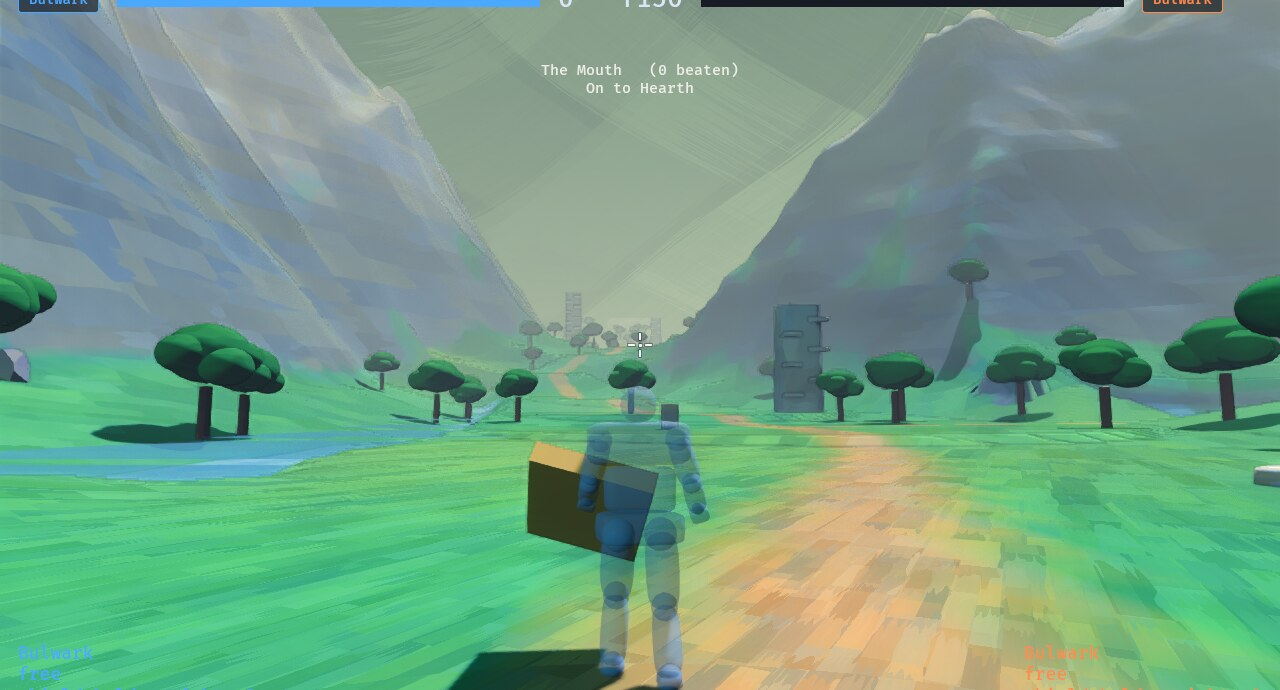
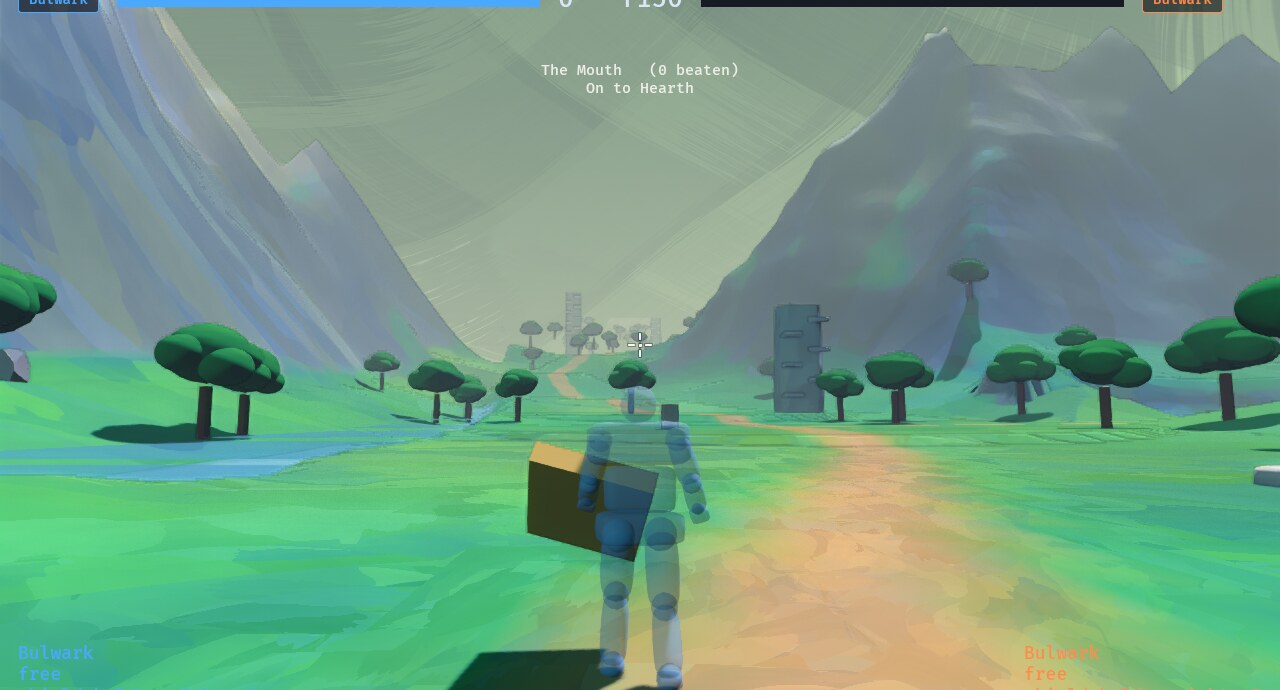
Brushed: strokes placed one by one, by direction and rigidity
On the owner's word: strokes on a path follow the path, on a hill point
uphill; parallel and uniform for brick or cut stone along its lines,
more varied the more natural the surface; grass much larger and freer.

Each stroke now has its own place, angle, length, width, curve, dry
ends, shade and colour, scattered by how loose the surface is. The way
comes from the mesh (a road's direction, from the gradient of the
distance to its middle), else uphill, along the courses, or a slow
wander on the flat. Rigidity and size ride in the mesh's second
texture coordinates (land::ground_stroke, shapes::lay_natural); grass
is the loosest and broadest of all.

Claude-Session: https://claude.ai/code/session_017GYBfN3ntK6jxjaipQK7U5

diff --git a/crates/game/src/land.rs b/crates/game/src/land.rs
@@ -139,7 +139,76 @@ pub fn tile_mesh(
             ground_colour(&palette, m, slope, steepest, rise, path, x, z)
         },
     );
+    let mut mesh = mesh;
+    let half = f(sim::valley::land::PATH_HALF);
+    lay_strokes(&mut mesh, x0, z0, &|x, z, slope| {
+        let (m, _, path) = ground_at(atlas, x, z, slope, steepest);
+        if path > half + 1.5 {
+            return ([0.0, 0.0], ground_stroke(m, slope > steepest));
+        }
+        // **Along the road.** The distance from the road's middle changes
+        // fastest straight across it, so the way along is square to that.
+        let e = 0.75;
+        let d = |x: f32, z: f32| f(land.sample(fx(x), fx(z)).path);
+        let g = Vec2::new(d(x + e, z) - d(x - e, z), d(x, z + e) - d(x, z - e));
+        let along = Vec2::new(-g.y, g.x).normalize_or_zero();
+        (along.to_array(), PATH_STROKE)
+    });
     (mesh, water)
+}
+
+/// How the brush lays strokes on a path: along it, fairly regular.
+const PATH_STROKE: [f32; 2] = [0.45, 1.0];
+
+/// **How the brush lays strokes on ground of this kind**: its rigidity (0 a
+/// meadow -- strokes of every size, angle and colour -- to 1 coursed stone,
+/// parallel and even) and its strokes' size against the rest. Grass the
+/// loosest and broadest of all; bare rock loose but smaller; dressed stone
+/// nearly ruled. Read by `paint.wgsl`'s `strokes`.
+pub fn ground_stroke(m: Material, steep: bool) -> [f32; 2] {
+    if steep {
+        return [0.2, 1.3];
+    }
+    match m {
+        Material::Grass | Material::Peat => [0.0, 2.4],
+        Material::Ground | Material::Sand | Material::Snow | Material::Ash => [0.2, 1.6],
+        Material::Rock => [0.25, 1.3],
+        Material::Water => [0.5, 1.8],
+        Material::Stone => [0.9, 0.6],
+        Material::Wood => [0.8, 0.7],
+    }
+}
+
+/// Write how the brush lays its strokes into a land mesh's vertices: a
+/// direction on the ground to lay them along (`[0, 0]` for none: the shader
+/// then lays them uphill, or wandering on the flat) in the first texture
+/// coordinates, and the rigidity and size in the second. `at` is asked at
+/// each vertex's map point and slope.
+pub fn lay_strokes(
+    mesh: &mut Mesh,
+    x0: f32,
+    z0: f32,
+    at: &dyn Fn(f32, f32, f32) -> ([f32; 2], [f32; 2]),
+) {
+    let (Some(positions), Some(normals)) = (
+        mesh.attribute(Mesh::ATTRIBUTE_POSITION)
+            .and_then(|a| a.as_float3()),
+        mesh.attribute(Mesh::ATTRIBUTE_NORMAL)
+            .and_then(|a| a.as_float3()),
+    ) else {
+        return;
+    };
+    let (along, kind): (Vec<[f32; 2]>, Vec<[f32; 2]>) = positions
+        .iter()
+        .zip(normals)
+        .map(|(p, n)| {
+            let up = n[1].clamp(1e-3, 1.0);
+            let slope = (1.0 - up * up).max(0.0).sqrt() / up;
+            at(x0 + p[0], z0 + p[2], slope)
+        })
+        .unzip();
+    mesh.insert_attribute(Mesh::ATTRIBUTE_UV_0, along);
+    mesh.insert_attribute(Mesh::ATTRIBUTE_UV_1, kind);
 }
 
 /// **The colour of open ground**: `Palette::land` for what it is made of,
@@ -523,7 +592,10 @@ pub fn draw_arena(
                     }
                 }
             };
-            let mesh = grid_mesh(x0, z0, size, cells, &height, &mut colour);
+            let mut mesh = grid_mesh(x0, z0, size, cells, &height, &mut colour);
+            lay_strokes(&mut mesh, x0, z0, &|_, _, slope| {
+                ([0.0, 0.0], ground_stroke(arena.floor, slope > steepest))
+            });
             commands.spawn((
                 Mesh3d(meshes.add(mesh)),
                 MeshMaterial3d(white.clone()),
@@ -723,7 +795,10 @@ pub fn draw_below(
                     z,
                 )
             };
-            let mesh = grid_mesh(x0, z0, size, cells, &height, &mut colour);
+            let mut mesh = grid_mesh(x0, z0, size, cells, &height, &mut colour);
+            lay_strokes(&mut mesh, x0, z0, &|_, _, slope| {
+                ([0.0, 0.0], ground_stroke(Material::Grass, slope > steepest))
+            });
             commands.spawn((
                 Mesh3d(meshes.add(mesh)),
                 MeshMaterial3d(white.clone()),

diff --git a/crates/game/src/shapes.rs b/crates/game/src/shapes.rs
@@ -344,6 +344,7 @@ pub fn cut_rock(size: Vec3, seed: u32, paint: Option<(Vec3, [f32; 3], &Brush)>) 
     if let Some((centre, base, brush)) = paint {
         self::paint(&mut mesh, h, centre, base, brush);
     }
+    lay_natural(&mut mesh, NATURAL_STONE);
     mesh
 }
 
@@ -404,7 +405,7 @@ pub fn rock_faceted(
     paint: Option<(Vec3, [f32; 3], &Brush)>,
 ) -> Mesh {
     let s = seed.wrapping_mul(0x9E37_79B9) as f32 * 1e-4;
-    superellipsoid(size, (0.55, 0.55), facets, paint, move |p, n| {
+    let mut mesh = superellipsoid(size, (0.55, 0.55), facets, paint, move |p, n| {
         // Two octaves of a smooth value noise over the direction, scaled by
         // the rock's own size so a boulder and a pebble are rough alike.
         let q = p / size.max_element().max(1e-3);
@@ -415,7 +416,23 @@ pub fn rock_faceted(
         // the air. The roughness fades out as the face turns upward.
         let top = n.y.clamp(0.0, 1.0);
         1.0 - 0.28 * (0.5 + 0.5 * v) * (1.0 - top * top)
-    })
+    });
+    lay_natural(&mut mesh, NATURAL_STONE);
+    mesh
+}
+
+/// How the brush lays strokes on bare rock: loose, a little smaller than on
+/// open ground (`land::ground_stroke`, `paint.wgsl`'s `strokes`).
+pub const NATURAL_STONE: [f32; 2] = [0.25, 1.1];
+
+/// Mark a whole mesh as one kind of surface for the brush: rigidity and
+/// stroke size, with no direction of its own (uphill, or along its courses).
+/// A mesh that is never marked is read by its faces: upright ones as built
+/// work, ruled along their courses; flat ones as open ground.
+pub fn lay_natural(mesh: &mut Mesh, kind: [f32; 2]) {
+    let n = mesh.count_vertices();
+    mesh.insert_attribute(Mesh::ATTRIBUTE_UV_0, vec![[0.0f32, 0.0]; n]);
+    mesh.insert_attribute(Mesh::ATTRIBUTE_UV_1, vec![kind; n]);
 }
 
 /// A column of raised earth: the Elementalist's stone, and the planted
@@ -1023,6 +1040,7 @@ pub fn cliff(
     // Normals from the roughened surface, so the lumps catch the light.
     mesh.compute_smooth_normals();
     let _ = normals;
+    lay_natural(&mut mesh, NATURAL_STONE);
     mesh
 }
 

diff --git a/docs/design/painting.md b/docs/design/painting.md
@@ -67,6 +67,40 @@ what it paints:
   (`crisp`, `painted_from`), so the fighters and the ground they are on stay
   3D and the brushwork lives behind them.
 
+## Which way, and how freely (2026-10-15)
+
+On the owner's word: *strokes on the path should follow the path, strokes on
+a hill should point uphill; exactly parallel and uniform is right for brick or
+cut stone, along its lines, and the closer to natural the more variation in
+size and angle; the grass's strokes much larger, with more variation in size,
+colour, shape and angle.*
+
+So every stroke is now placed one by one (`paint.wgsl` `strokes`): a few to
+each cell of a grid on the surface, each with its own place, angle, length,
+width, curve, tapered dry ends, shade and two colour shifts, the topmost
+covering a point being the one seen. Two things decide them:
+
+- **Which way** (`stroke_way`): along a direction the mesh gave (a road --
+  the way square to the gradient of the distance from its middle,
+  `land::tile_mesh`), else uphill on a slope, along the courses on upright
+  built work, and on the flat a direction that wanders slowly.
+- **How freely** -- *rigidity*, 0 to 1, with a size: at 1 the strokes sit on
+  the grid, parallel and alike; at 0 they are scattered, turned, sized and
+  coloured freely. Carried in the mesh's second texture coordinates
+  (`land::ground_stroke`, `shapes::lay_natural`), read off the face where a
+  mesh says nothing: upright is built, flat is open ground.
+
+| Surface | Rigidity | Size |
+| --- | --- | --- |
+| Grass, peat | 0 | 2.4 |
+| Earth, sand, snow, ash | 0.2 | 1.6 |
+| Bare rock, cliffs, boulders | 0.25 | 1.1 to 1.3 |
+| A road | 0.45 (along it) | 1.0 |
+| Water | 0.5 | 1.8 |
+| Timber | 0.8 | 0.7 |
+| Dressed stone | 0.9 | 0.6 |
+| Unmarked, upright (walls, plaster) | 0.85 | 0.7 |
+
 ## Built on open source
 
 | From | What we took | Licence |
